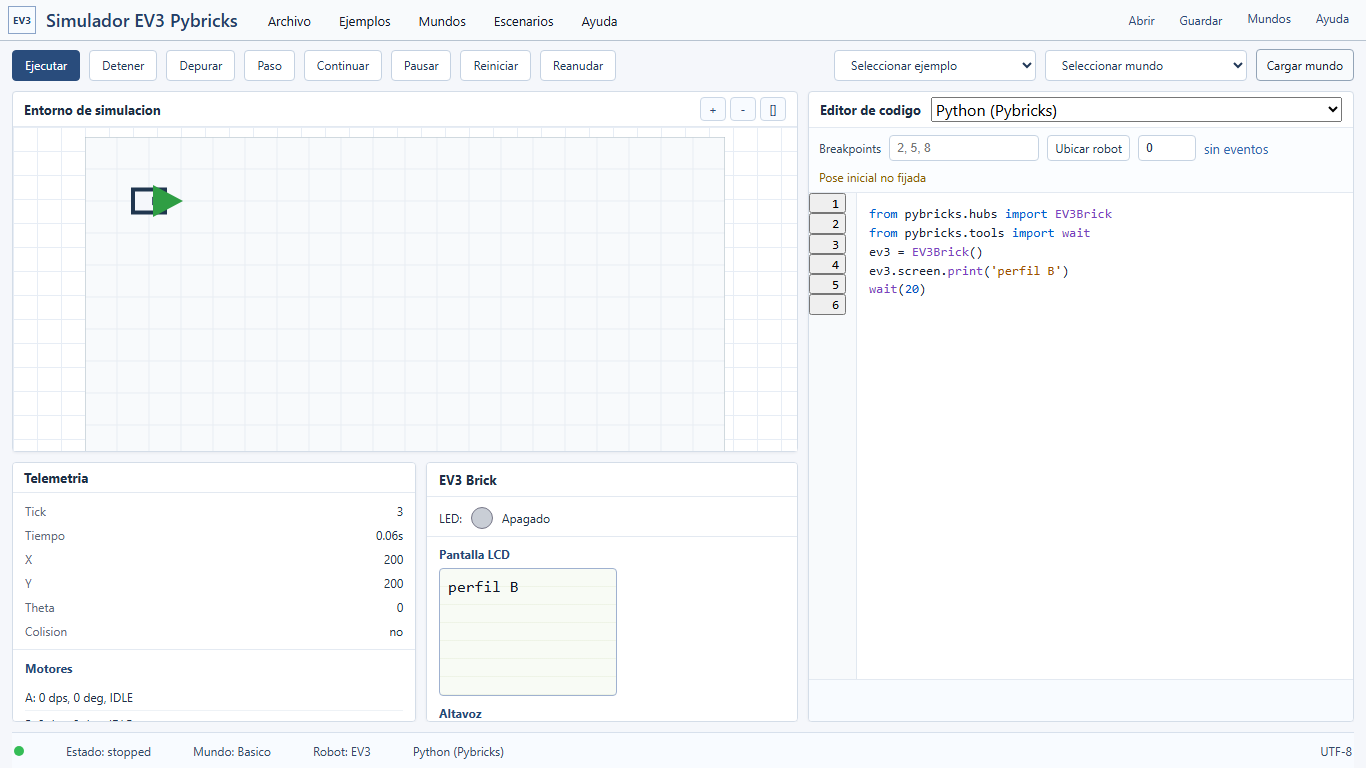
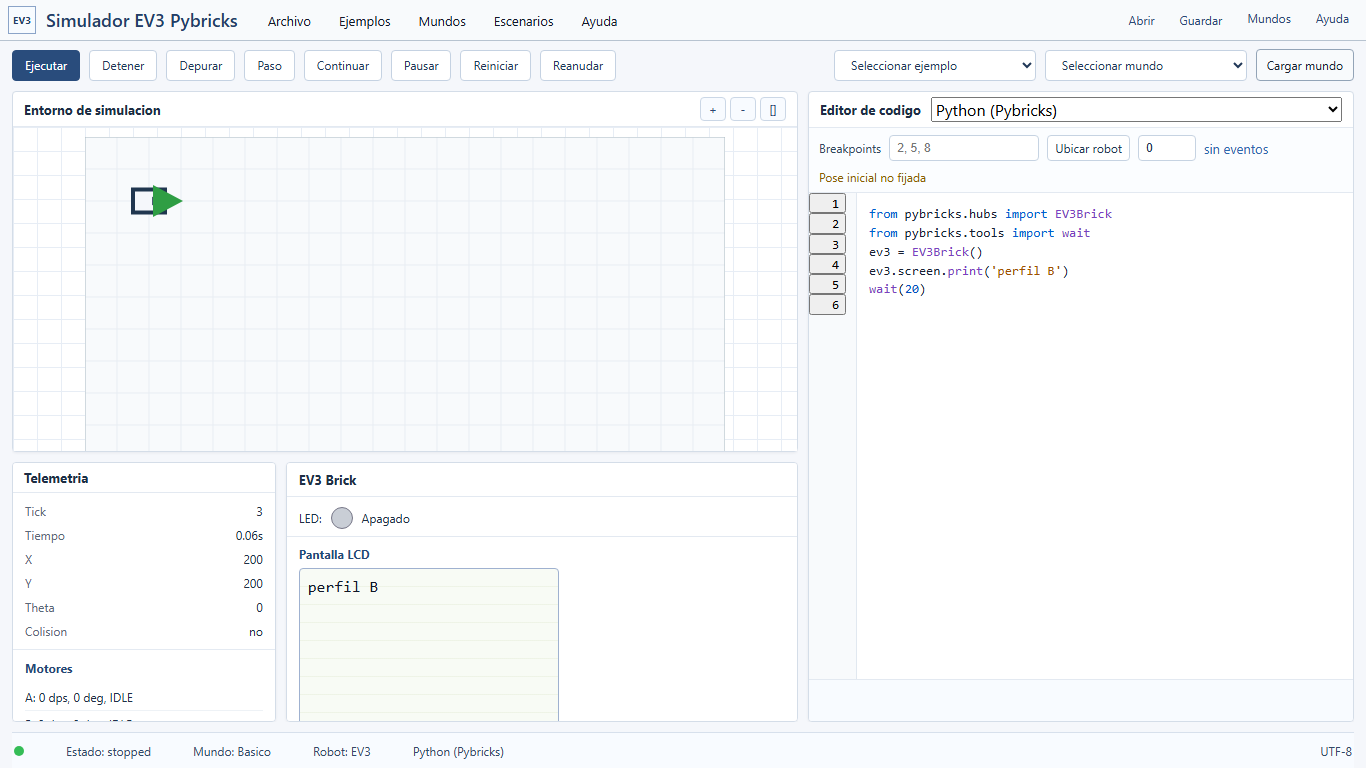
ui: ampliar lcd y ajustar telemetria

Changed region(s): [[0.1845, 0.5938, 0.3997, 0.7812], [0.3075, 0.9062, 0.369, 0.9375]]

diff --git a/simulador_ev3/web/static/css/app.css b/simulador_ev3/web/static/css/app.css
@@ -498,7 +498,7 @@ dd {
   min-width: 0;
   min-height: 0;
   display: grid;
-  grid-template-columns: minmax(300px, 1fr) minmax(300px, 0.92fr);
+  grid-template-columns: minmax(220px, 0.68fr) minmax(360px, 1.32fr);
   gap: 10px;
   overflow: hidden;
 }
@@ -940,7 +940,7 @@ dd {
 }
 
 .sim-brick-pane .brick-screen {
-  width: min(178px, calc(100% - 24px));
+  width: min(260px, calc(100% - 24px));
   height: auto;
   min-height: 0;
   aspect-ratio: 178 / 128;
@@ -955,6 +955,12 @@ dd {
       #e5ecd8 18px
     );
   color: #111827;
+}
+
+@media (min-height: 940px) {
+  .sim-brick-pane .brick-screen {
+    width: min(356px, calc(100% - 24px));
+  }
 }
 
 .speaker-status {

diff --git a/tests/web/test_web_app.py b/tests/web/test_web_app.py
@@ -300,8 +300,11 @@ def test_ev3_lcd_keeps_original_screen_ratio(tmp_path):
     css = client.get("/static/css/app.css").get_data(as_text=True)
 
     assert ".sim-brick-pane .brick-screen" in css
-    assert "width: min(178px, calc(100% - 24px));" in css
+    assert "width: min(260px, calc(100% - 24px));" in css
+    assert "@media (min-height: 940px)" in css
+    assert "width: min(356px, calc(100% - 24px));" in css
     assert "aspect-ratio: 178 / 128;" in css
+    assert "grid-template-columns: minmax(220px, 0.68fr) minmax(360px, 1.32fr);" in css
 
 
 def test_web_editor_places_assets_like_tkinter_tool_origin(tmp_path):
